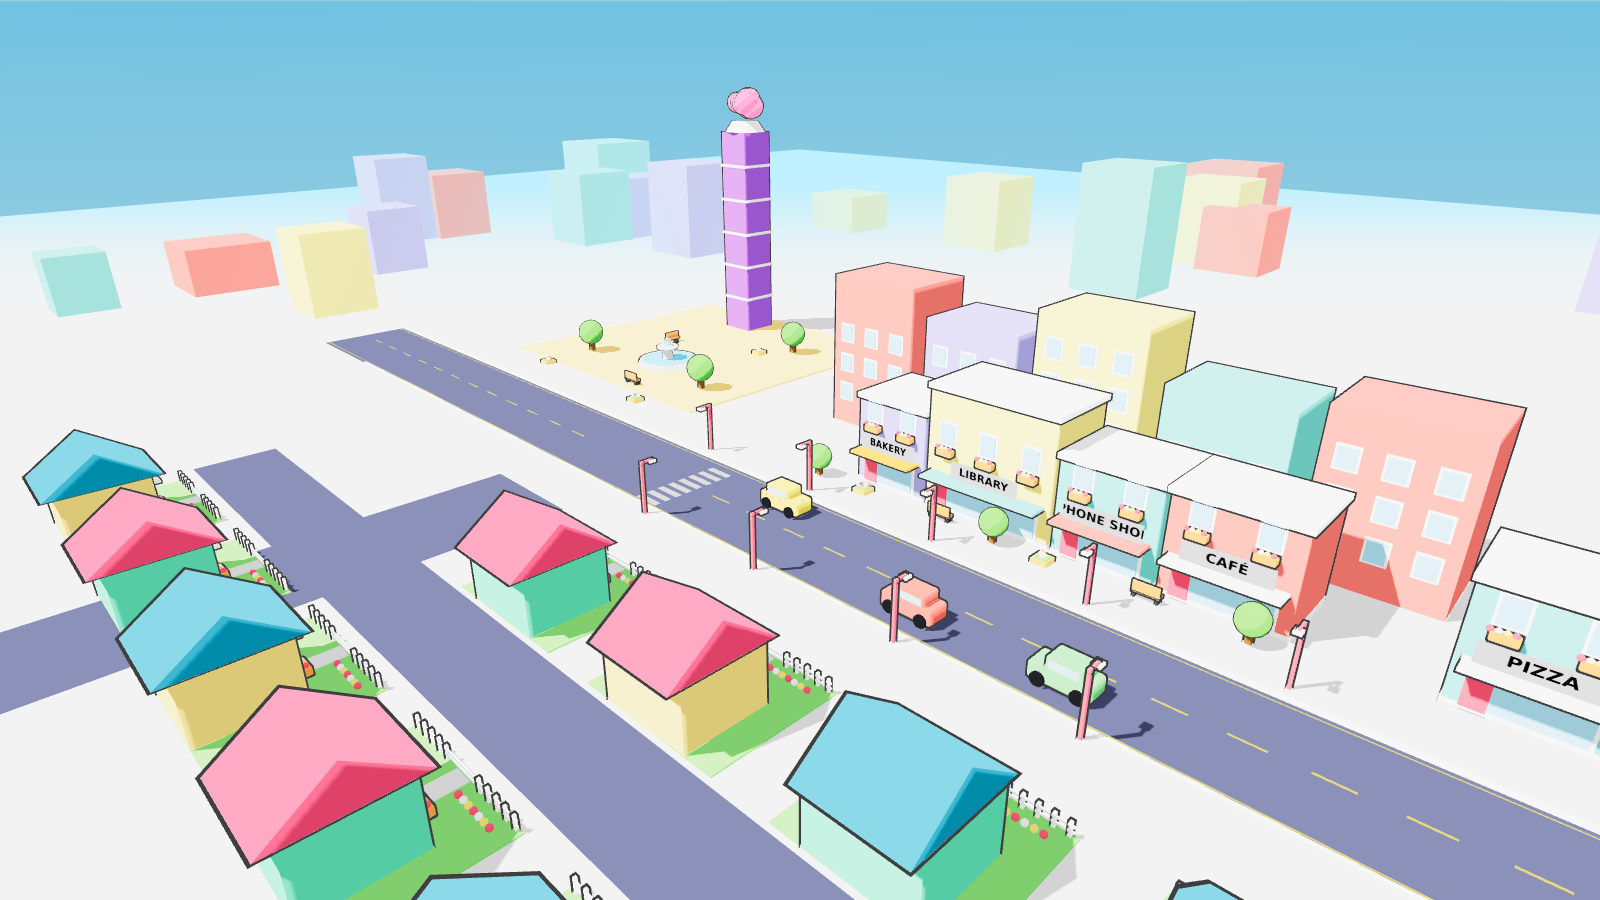
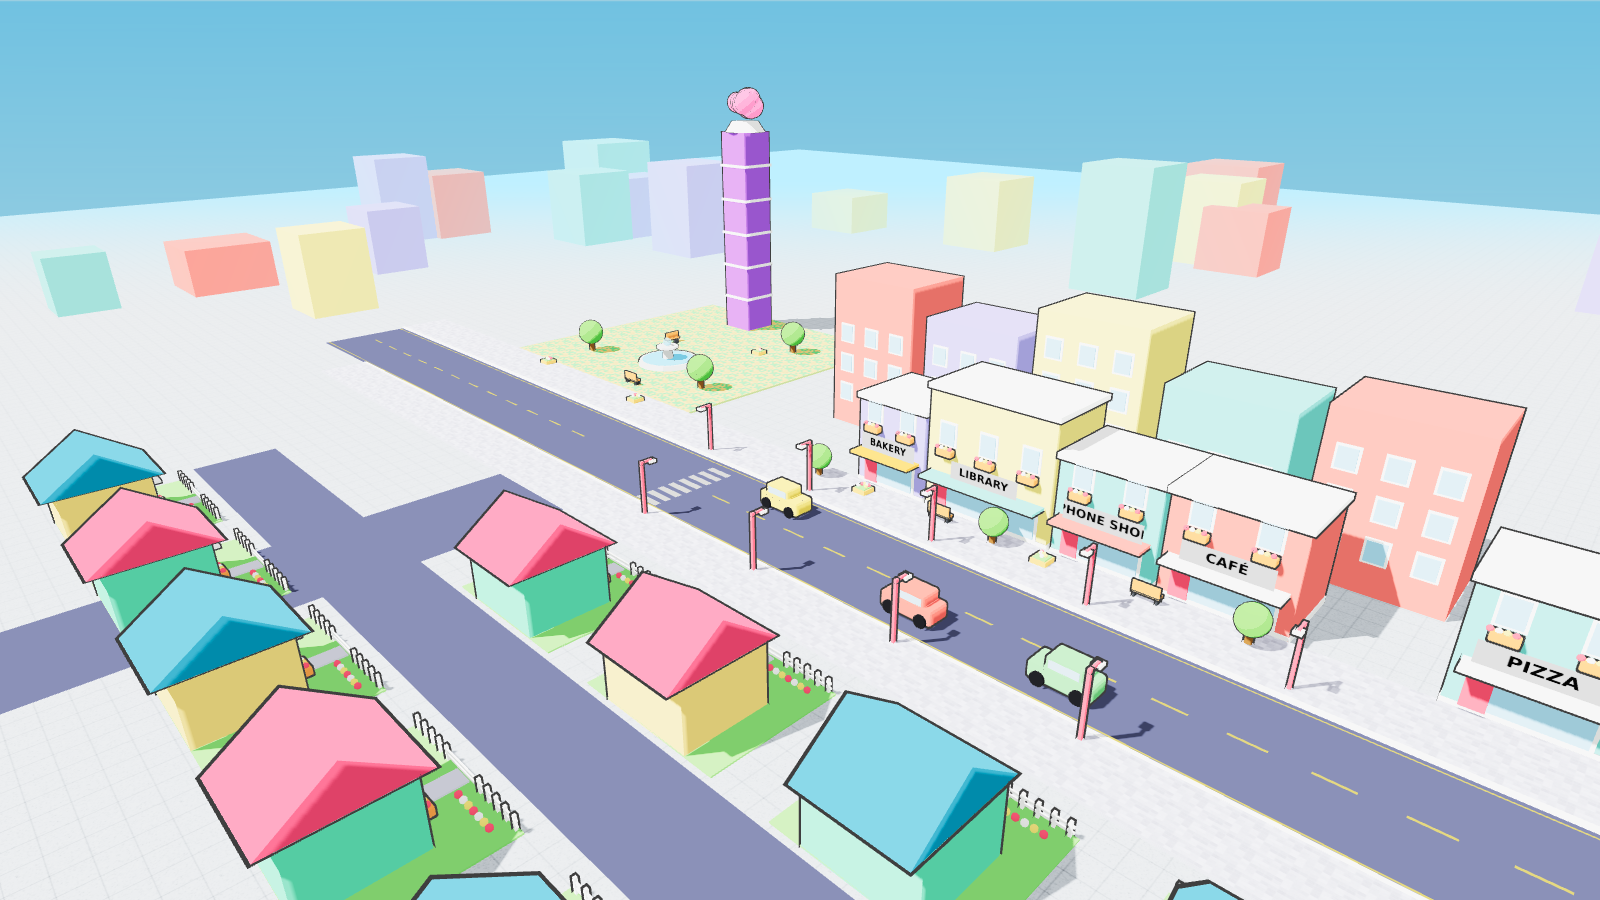
Add 6 art-style options for the town (same street, street and high views, contact sheet)
Claude-Session: https://claude.ai/code/session_01QaaPNU1bJZfAFSVNch9qrv

diff --git a/docs/style_options/README.md b/docs/style_options/README.md
@@ -1,0 +1,12 @@
+# Style options: the same street in 6 looks
+
+These are quick mock-ups made with simple 3D boxes, to compare **art styles**, not layouts. Every style shows the same street: shops, houses, a plaza with a fountain, and the Brain Tower. `ALL_STYLES.png` shows all six side by side. Each style also has a street-level picture (`styleN_street.png`) and a high-angle picture (`styleN_high.png`).
+
+1. **Cute & polished (inspired by Adopt Me's feel):** soft pastel colours, rounded chunky shapes and lots of cute decor (bunting, flowers, round lamps). It's friendly and very "Roblox hit game". It runs well on phones and is easy to build in Roblox with smooth parts and simple materials. The shapes and assets are our own.
+2. **Semi-realistic textured:** real brick, plaster, asphalt and paving textures with natural colours. It feels like a polished life-sim town. It's medium on phones and needs MaterialVariants or SurfaceAppearance textures (medium effort).
+3. **Realistic city:** tall concrete and glass buildings, a grey palette and grittier roads. It feels like a real big city. It's the heaviest on phones (big buildings and textures), and the hardest to make look good, since it needs good meshes.
+4. **Toon / cel-shaded:** flat bright colours with black outlines, like a comic or cartoon. It's light on phones. Outlines in Roblox need the Highlight object or outline meshes (medium effort), and it looks very unique.
+5. **Cozy storybook:** golden-hour light, cobblestone streets, timber and brick shops with steep red roofs and flower boxes. It's warm and magical. It's medium on phones, and the timber and roof textures plus the warm lighting are easy to do in Roblox.
+6. **Clean low-poly:** minimal flat colours and simple shapes. It's the lightest on phones and the easiest to build, and it's also what a **Low detail mode** could look like for any of the other styles.
+
+Tip: you can mix styles, for example "2, but with the colours and decor of 1".
